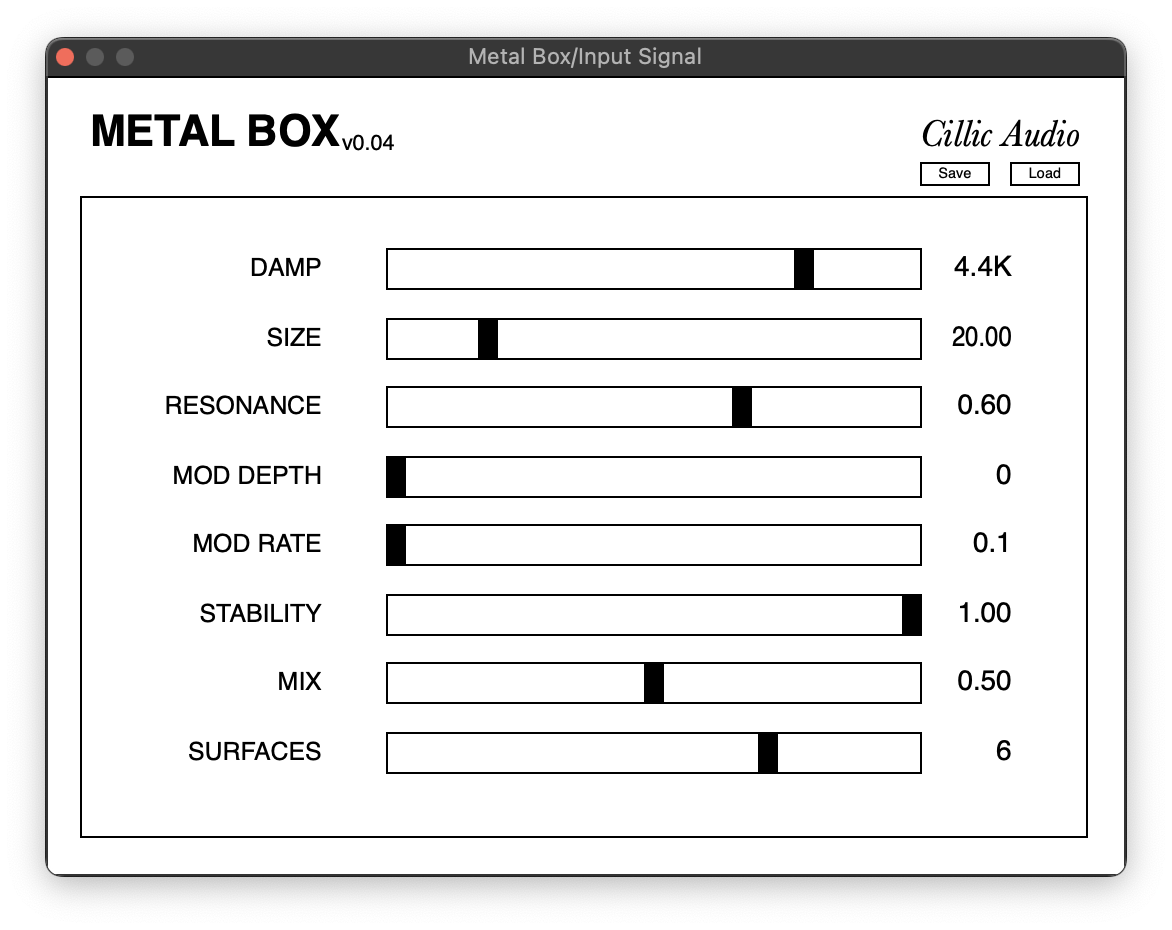
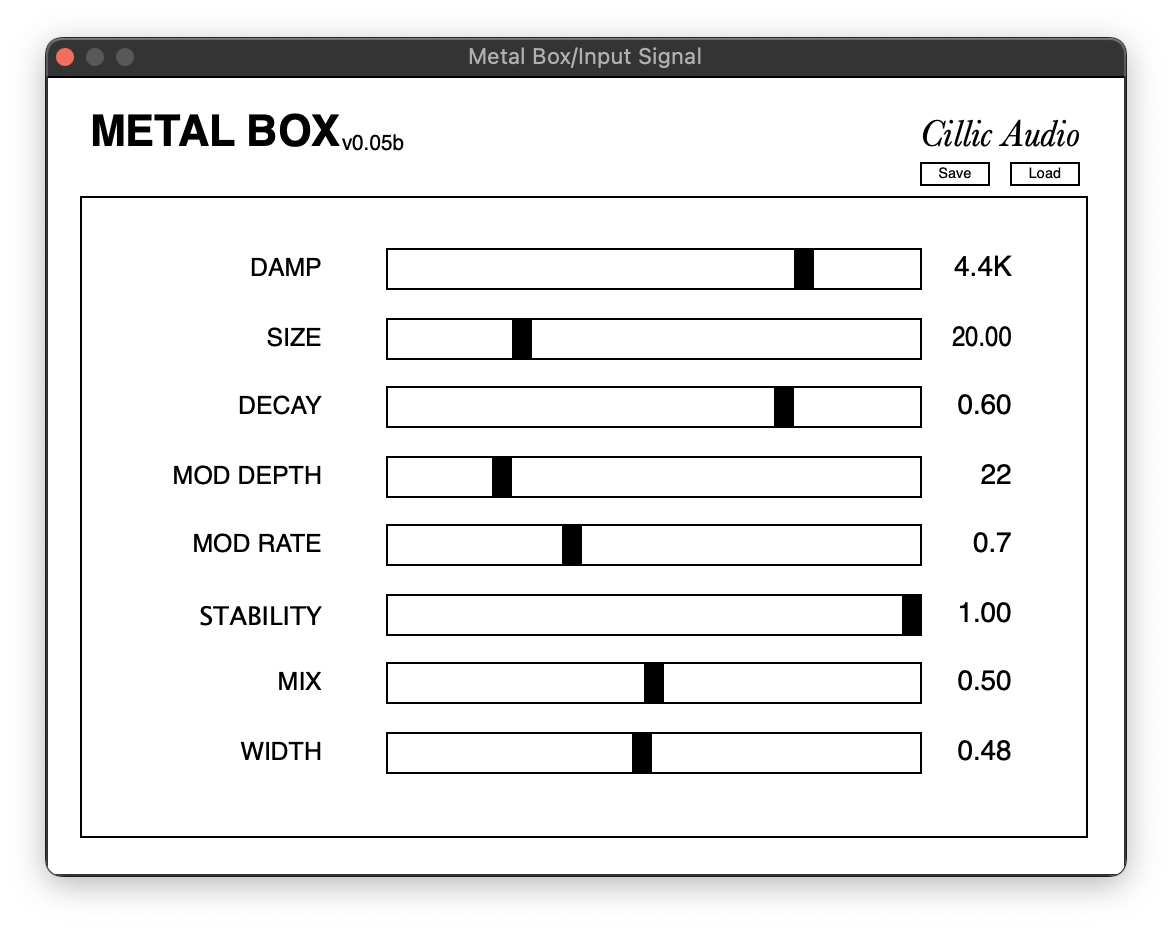
Updated news

diff --git a/index.html b/index.html
@@ -28,10 +28,13 @@
 
 		<h2>News</h2>
 		<p>Information and redirects for most recent releases</p>
-		<h3><i>Many updates</i></h3>
-		<img id="newspic" src="images/stars.jpg">
+		<h3><i>Metal Box Out Now</i></h3>
+		<img id="newspic" src="images/metalbox.png">
 		<p id="story">
-			After five years, I finally updated the look and feel of the webpage. I also changed the name, as the previous one was only ever meant to be a placeholder. More changes pending. Thank you, and here's to 5 more years at least.
+			Cillic Audio's inaugural plugin is released into the world. You can buy it from <a>href=plugins.html>plugins</a>. Demos available on the Cillic Audio youtube page.
+		</p>
+		<p id="newspic">
+			<iframe width="560" height="315" src="https://www.youtube-nocookie.com/embed/YR1nAVnOUCU?si=-Q6Z76LG-ZGTKCcS&amp;controls=0" title="YouTube video player" frameborder="0" allow="accelerometer; autoplay; clipboard-write; encrypted-media; gyroscope; picture-in-picture; web-share" referrerpolicy="strict-origin-when-cross-origin" allowfullscreen></iframe>
 		</p>
 
 		<div id="footer-container"></div>
